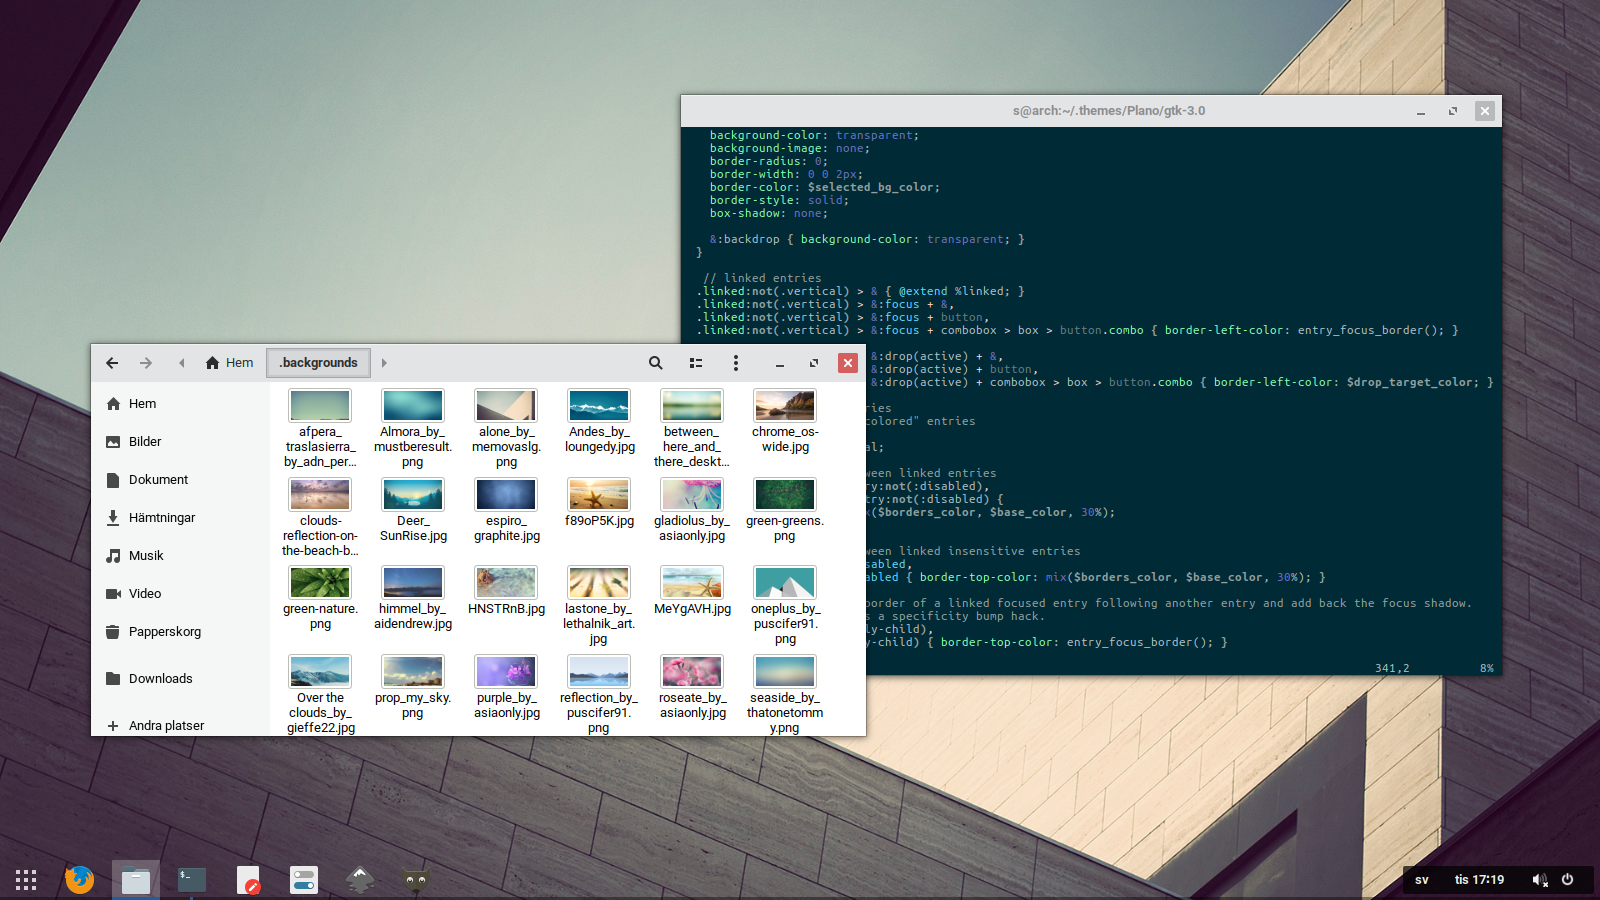
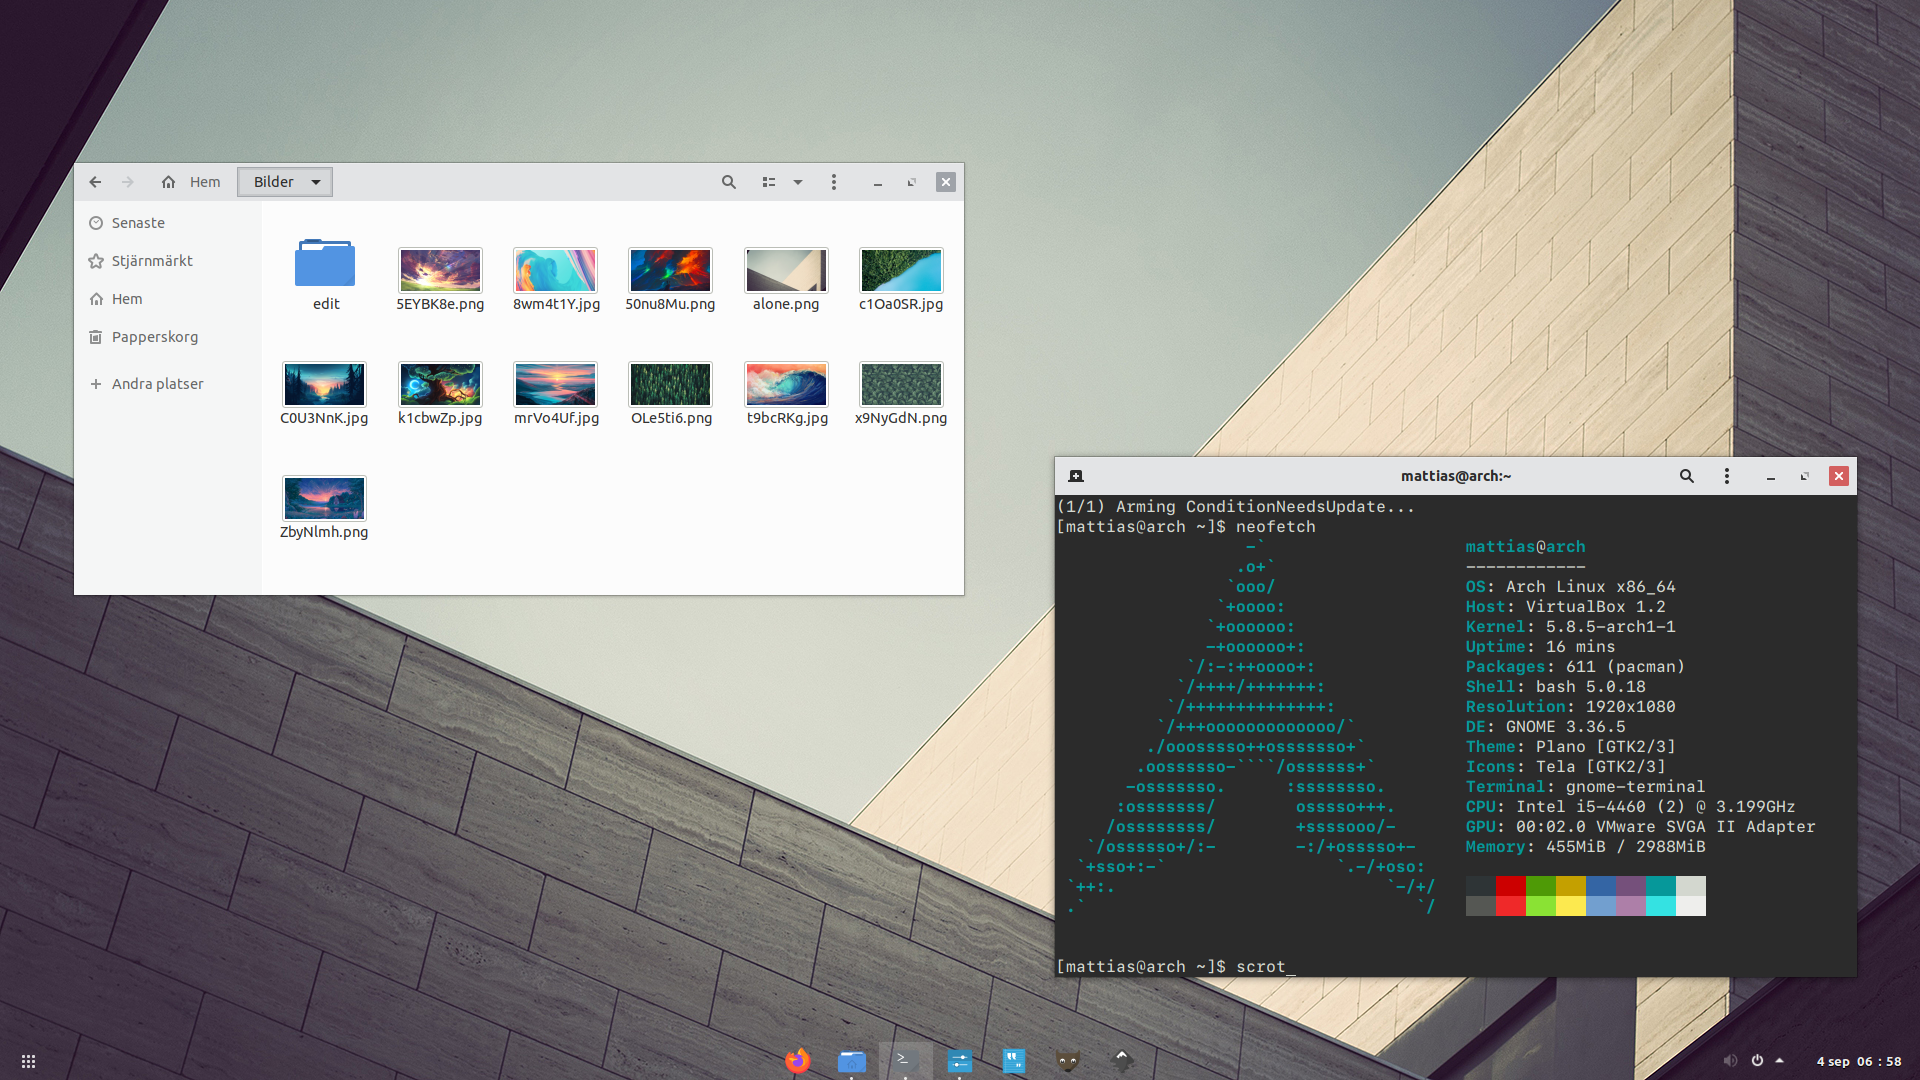
Update preview and fix #55

diff --git a/README.md b/README.md
@@ -3,7 +3,7 @@ Plano is a flat theme for GNOME and Xfce.
 
 ![Plano theme](plano.png?raw=true)
 
-<sub>Screenshot Details: [Wallpaper](http://memovaslg.deviantart.com/art/Alone-353235628) | [Icons](https://github.com/snwh/paper-icon-theme) | GNOME shell extension: [Dash to panel](https://github.com/jderose9/dash-to-panel)</sub>
+<sub>Screenshot Details: [Wallpaper](http://memovaslg.deviantart.com/art/Alone-353235628) | [Icons](https://github.com/vinceliuice/Tela-icon-theme) | GNOME shell extension: [Dash to panel](https://github.com/jderose9/dash-to-panel)</sub>
 
 ### Requirements
 
@@ -54,6 +54,11 @@ gsettings set org.gnome.desktop.interface gtk-theme Plano
 # Reverting the change to the default GNOME theme
 gsettings set org.gnome.desktop.interface gtk-theme Adwaita
 ```
+
+To change the gnome-shell theme you need to activate the `User themes` extension on the Extensions page in `gnome-tweaks`.
+1. If it's not installed, then look for the package `gnome-shell-extensions` or `gnome-shell-extension-user-theme` and install it.
+2. Restart `gnome-tweaks` (if it was open) and activate `User themes` on the Extensions page in `gnome-tweaks`.
+3. Go to the Appearance page in `gnome-tweaks` and change the Shell theme to Plano in the drop-down list. (If it still shows a yellow rectangle, then restart `gnome-tweaks` or relog.)
 
 Xfce users can change themes in `Settings > Appearance` and `Settings > Window manager`
 
